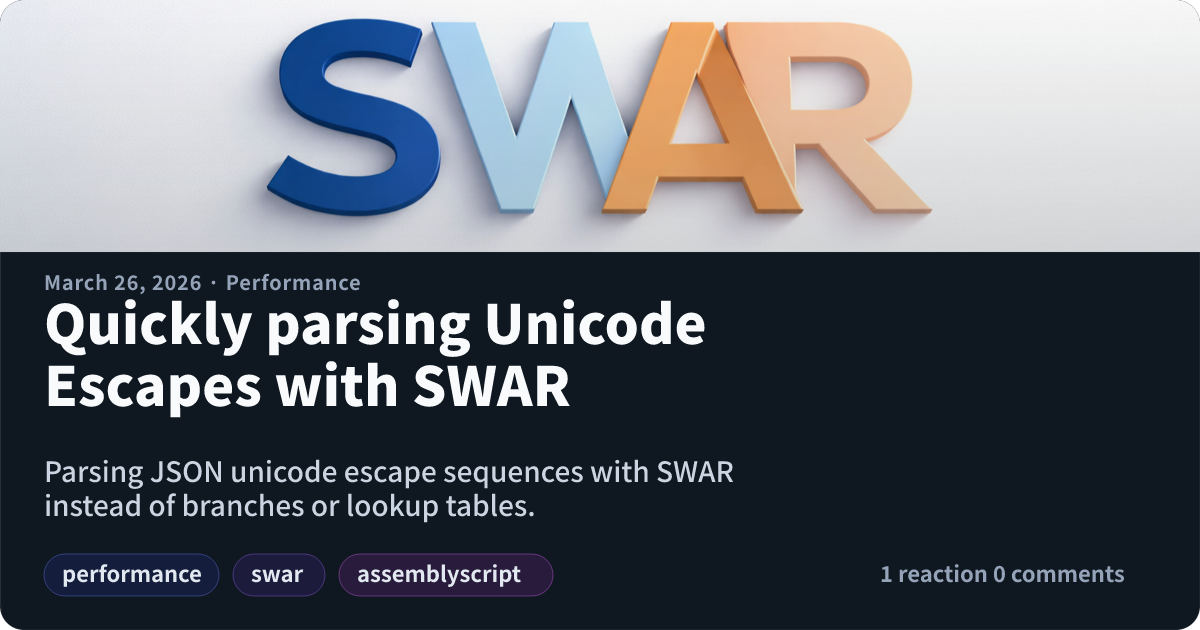
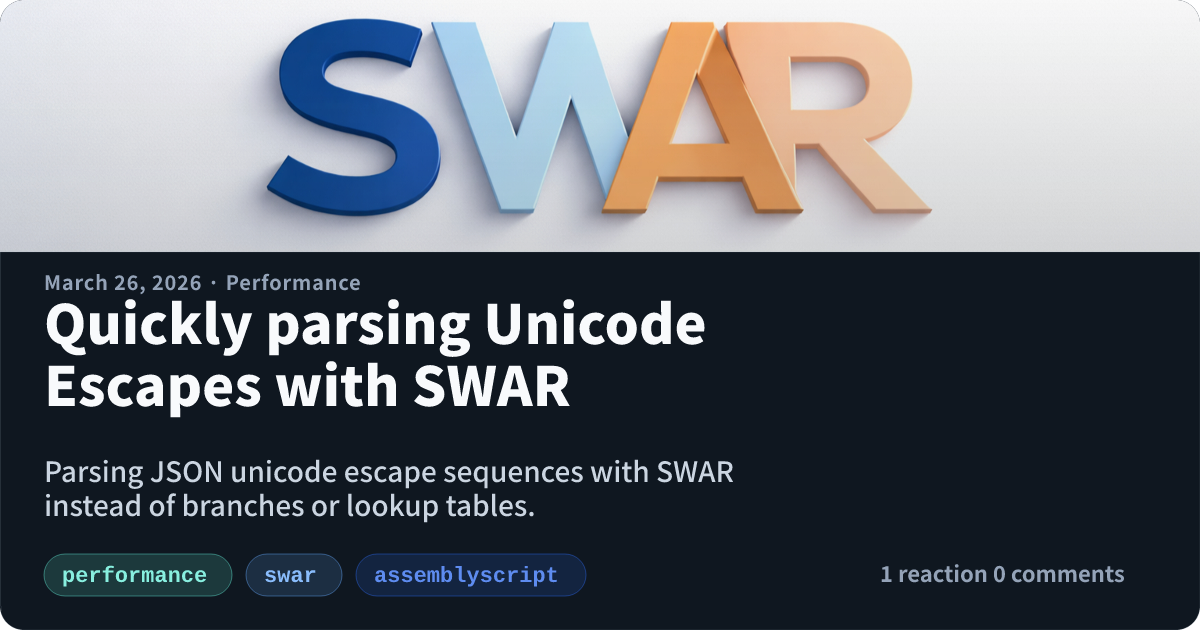
Tune tag colors across cards

Changed region(s): [[0.0308, 0.8746, 0.4933, 0.9651]]

diff --git a/.vitepress/theme/tagStyles.ts b/.vitepress/theme/tagStyles.ts
@@ -5,7 +5,7 @@ export function tagStyle(tag: string, overrides: Record<string, string> = {}) {
     return {
       backgroundColor: `color-mix(in srgb, ${color} 16%, transparent)`,
       borderColor: `color-mix(in srgb, ${color} 42%, var(--vp-c-divider))`,
-      color,
+      color: `color-mix(in srgb, ${color} 74%, white 26%)`,
     };
   }
 
@@ -18,6 +18,6 @@ export function tagStyle(tag: string, overrides: Record<string, string> = {}) {
   return {
     backgroundColor: `hsla(${hue}, 78%, 52%, 0.12)`,
     borderColor: `hsla(${hue}, 78%, 52%, 0.32)`,
-    color: `hsl(${hue}, 80%, 68%)`,
+    color: `hsl(${hue}, 88%, 78%)`,
   };
 }
